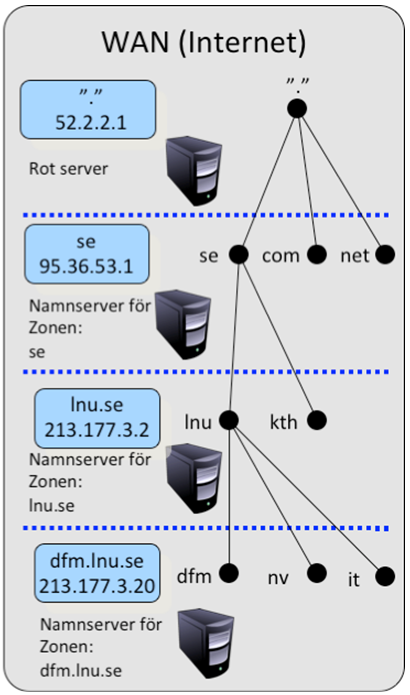
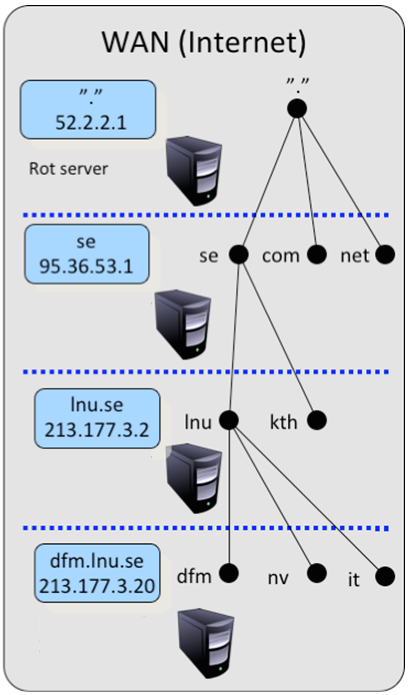
Translated DNS and DHCP questions to english and updated the DNS figure

Changed region(s): [[0.0878, 0.8763, 0.4098, 0.9971], [0.0585, 0.6345, 0.3805, 0.7554], [0.0585, 0.423, 0.3805, 0.5137]]

diff --git a/Seminar 3/Seminar_3.tex b/Seminar 3/Seminar_3.tex
@@ -5,7 +5,7 @@
 \documentclass[paper=a4, fontsize=11pt]{report} % A4-sida och 11 punkters fontstorlek
 
 \usepackage[T1]{fontenc} % 8-bitarskodning som har 256 glyfer
-\usepackage[swedish]{babel} % Svenskt språk
+\usepackage[english]{babel} % Svenskt språk
 \usepackage[utf8]{inputenc} % För svenska tecken
 \usepackage{dtklogos} % Logos
 \usepackage{wallpaper} % Bakgrundsbild
@@ -88,7 +88,7 @@
   \section{Introduction}
   During this seminar, we will address the following topics:
   \begin{itemize}
-    \item DNS - bind
+    \item DNS
     \item DHCP
     \item Web Server
   \end{itemize}
@@ -107,23 +107,19 @@
   \subsection{DNS}
   \begin{enumerate}
     \begin{large}
-		\item Vad är DNS och dess huvuduppgift?
-		\item Vad är Forward Lookup Zone?
-		\item Vad är Reverse Lookup Zone?
-		\item Beskriv 10 olika toppdomäner och dess användningsområden.
-		\item Utan DNS skulle inte Internet fungera:
+		\item What is DNS and its main function?
+		\item What is Forward Lookup Zone?
+		\item What is Reverse Lookup Zone?
+		\item Please describe 10 different TLDs and its uses.
+		\item Without DNS, the Internet would not work:
 		\begin{enumerate}[a.]
-			\item Hur fungerar DNS-strukturen på Internet?
-			\item Måste företagets DNS servrar vara uppkopplade mot Internets DNS servrar?
-			\item Hur skiljer sig en intern DNS server från en publik?
+			\item How does DNS structure on the Internet work?
+			\item Must the company's DNS servers to be connected to the Internet's DNS servers?
+			\item What is the difference between an internal DNS server from an public?
 		\end{enumerate}
-		\item Hur fungerar DNS delegering och när används detta?
-		\item Det finns en zon typ som är specifik för Microsofts DNS servrar, vilken är det och vad används den till?
-		\begin{enumerate}[a.]
-			\item	Vad är ett Glue record?
-		\end{enumerate}
-		\item	Hur går du till väga för att skapa redundans på en zon/domän?
-		\item	Beskriv följande records:
+		\item How does a DNS delegation work and when is it used?
+		\item How do you go about creating redundancy in a zone / domain?
+		\item Describe the following records:
 		\begin{enumerate}[a.]
 			\item CNAME
 			\item PTR
@@ -133,23 +129,21 @@
 			\item SOA
 			\item A
 		\end{enumerate}
-		\item Vad är Zone transfer?
-		\item Vad är ROOT hints och vad används de till?
-		\item Beskriv fördelar och nackdelar med DNS caching.
-		\item Vad är DNS forward och hur fungerar det?
+		\item What is a Zone transfer?
+		\item How dose ROOT hints work?
+		\item Describe the advantages and disadvantages of DNS caching.
+		\item What is DNS forward and how it works?
 		\begin{figure}[h]
 		\centering
 		\includegraphics[width=0.5\linewidth]{./figure_1}
-		\caption{Namnsservrar på Internet}
+		\caption{Namne servers on the Internet}
 		\label{fig:figure_1}
 		\end{figure}
 		
-		\item Låt oss säga att du har en klient som är koppla till 
-		ett nätverk som har en egen DNS server som är konfigurerad med DNS forward till företagets 
-		ISPs DNS server. Utgå från Figur \ref{fig:figure_1}
+		\item Let's say you have a client that is connecting to a network that has its own DNS server that is configured with DNS forward to the company's ISP's DNS server. Start from Figure \ref{fig:figure_1}
 		\begin{enumerate}[a.]
-			\item Beskriv i detalj vad som händer när klienten ställer en rekursiv DNS fråga om IP för www.dfm.lnu.se 
-			\item Beskriv i detalj vad som händer när klienten ställer en iterativ DNS fråga om IP för www.dfm.lnu.se 
+			\item Describe in detail what happens when the client makes a recursive DNS request for IP of www.dfm.lnu.se 
+			\item Describe in detail what happens when the client makes a none recursive DNS request for IP of www.dfm.lnu.se 
 		\end{enumerate}
     \end{large}
     \setcounter{tmpc}{\theenumi}
@@ -159,8 +153,8 @@
   \begin{enumerate}
   \setcounter{enumi}{\thetmpc}	
     \begin{large}
-	    \item Vad används DHCP till och på vilket sätt förenklar detta administrationen?
-		\item Beskriv följande DHCP-termer:
+	    \item What is DHCP and how this simplifies administration?
+		\item Describe the following DHCP terms:
 		\begin{enumerate}[a.]
 			\item Scope
 			\item Exclusion range
@@ -168,8 +162,7 @@
 			\item Lease
 			\item Reservation
 		\end{enumerate}
-		\item Beskriv de olika stegen i en DHCP förfrågan?
-		\item Beskriv hur DHCP kan integreras med DNS och vilka fördelar/nackdelar detta medför?
+		\item Describe the different steps of a DHCP request?
     \end{large}
     
     \setcounter{tmpc}{\theenumi}
